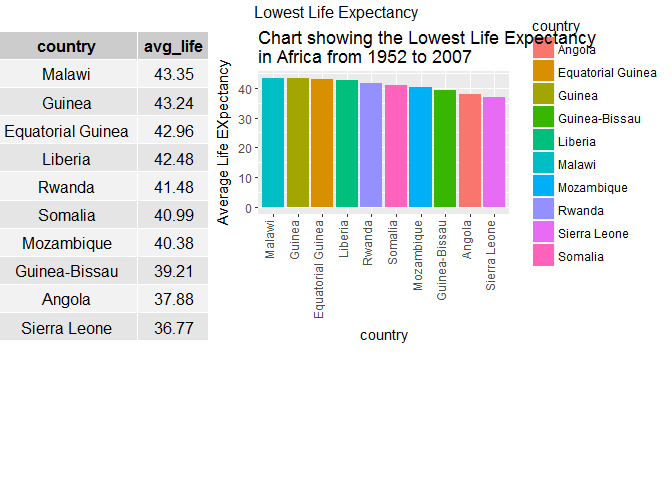
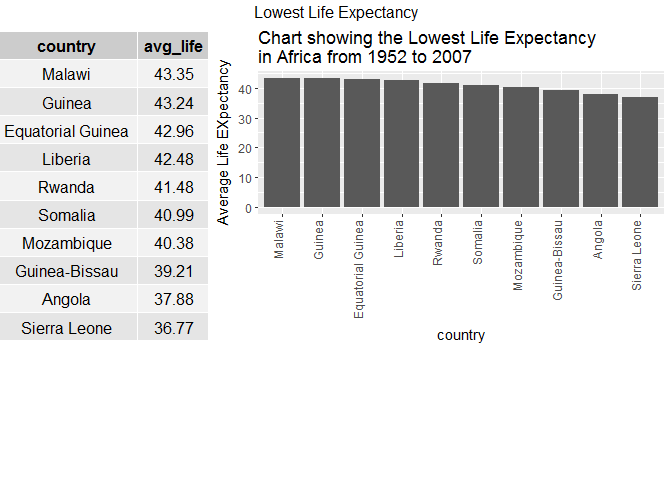
Final push from Rstudio

Changed region(s): [[0.375, 0.0312, 1.0, 0.6562], [0.5312, 0.6875, 0.625, 0.7188], [0.6562, 0.6875, 0.7188, 0.7188]]

diff --git a/HW03/STAT545A_HW03.md b/HW03/STAT545A_HW03.md
@@ -368,7 +368,7 @@ ggplot(Life_Ab, aes(continent, no_low_lifeExp)) +
     facet_wrap(~ year) +
     geom_point(colour="red")+ ylab("Number of Countries")+ 
     ggtitle("Faceted Graph showing the Number of Countries with Low Life Expectancy \nby Continent")+
-    theme(axis.text.x = element_text(angle = 90, vjust= 0, hjust = 1))
+  theme(axis.text.x = element_text(angle = 90, vjust= 0, hjust = 1))
 ```
 
 <img src="STAT545A_HW03_files/figure-markdown_github/unnamed-chunk-5-1.png" style="display: block; margin: auto;" />
@@ -382,7 +382,7 @@ Extra: Which countries in Africa have the lowest life expectancy
 #Obtain the average life expectancy for all continents in all years
 all_means = mean(gapminder$lifeExp)
 
-# Get all the relevant columns in Africa, get the life expectancy for each country across all years, then apply another filter to remove countries that have a mean score less than the number for all continents
+# Get all the relevant columns in Africa, get the life expectancy for each country \n #across all years, then apply another filter to remove countries that have a mean \n #score less than the number for all continents
 
 Af_Life <- gapminder %>% 
     select(continent, country, year, lifeExp)  %>%  
@@ -397,7 +397,9 @@ Af_Life <- gapminder %>%
 
 #Create a bar chart that is ordered by life expectancy in descending order
 #and reorients the x-axis labels
-low_life <- ggplot(Af_Life, aes(x=reorder(country, - avg_life), y=avg_life, fill = country)) +  geom_bar(stat="identity")  + ggtitle("Chart showing the Lowest Life Expectancy \nin Africa from 1952 to 2007") + xlab("country") + ylab("Average Life EXpectancy") + theme(axis.text.x = element_text(angle = 90, vjust= 0, hjust = 1))
+low_life <- ggplot(Af_Life, aes(x=reorder(country, - avg_life), y=avg_life)) +  geom_bar(stat="identity")  + 
+ggtitle("Chart showing the Lowest Life Expectancy \nin Africa from 1952 to 2007") + xlab("country") + ylab("Average Life EXpectancy") + 
+theme(axis.text.x = element_text(angle = 90, vjust= 0, hjust = 1))
 
 
 #Set the table as a Grob for Grid
